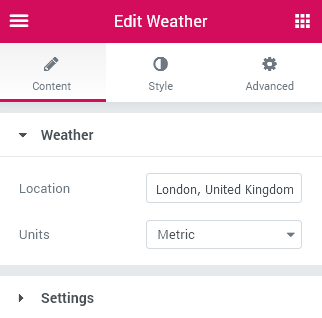
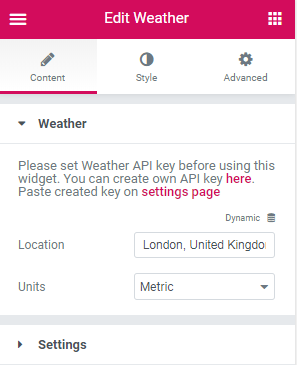
jetelements doc

diff --git a/sections/jetelements-settings/en/instagram-options.php b/sections/jetelements-settings/en/instagram-options.php
@@ -1,0 +1,10 @@
+<h3>Instagram Options</h3>
+
+<p>In this block you can input an Instagram Access Token needed for the correct work of Instagram widget. </p>
+
+<ul class="marked-list">
+<p><li><b>Access Token</b> - here you can input an Instagram Access Token to use it for the Instagram widget. You can read more about how to get Instagram Access Token <a href="https://elfsight.com/blog/2016/05/how-to-get-instagram-access-token/" rel="nofollow"> here</a> or <a href="https://docs.oceanwp.org/article/487-how-to-get-instagram-access-token" rel="nofollow"> here</a>.</li></p></ul>
+
+  <figure class="img-polaroid">
+        <img src="projects/<?php echo $project;?>/img/widgets/instagram-options.png">
+    </figure>

diff --git a/sections/jetelements-settings/en/weather-options.php b/sections/jetelements-settings/en/weather-options.php
@@ -1,0 +1,10 @@
+<h3>Weather Options</h3>
+
+<p>In this block you can input an API Key needed for the correct work of Weather widget. </p>
+
+<ul class="marked-list">
+<p><li><b>Access Token</b> - here you can input an API key to use it for the Weather widget. You can create your own APIXU Weather API key <a href="https://www.apixu.com/api.aspx/" rel="nofollow"> here</a>.</li></p></ul>
+
+  <figure class="img-polaroid">
+        <img src="projects/<?php echo $project;?>/img/widgets/weather-options.png">
+    </figure>
